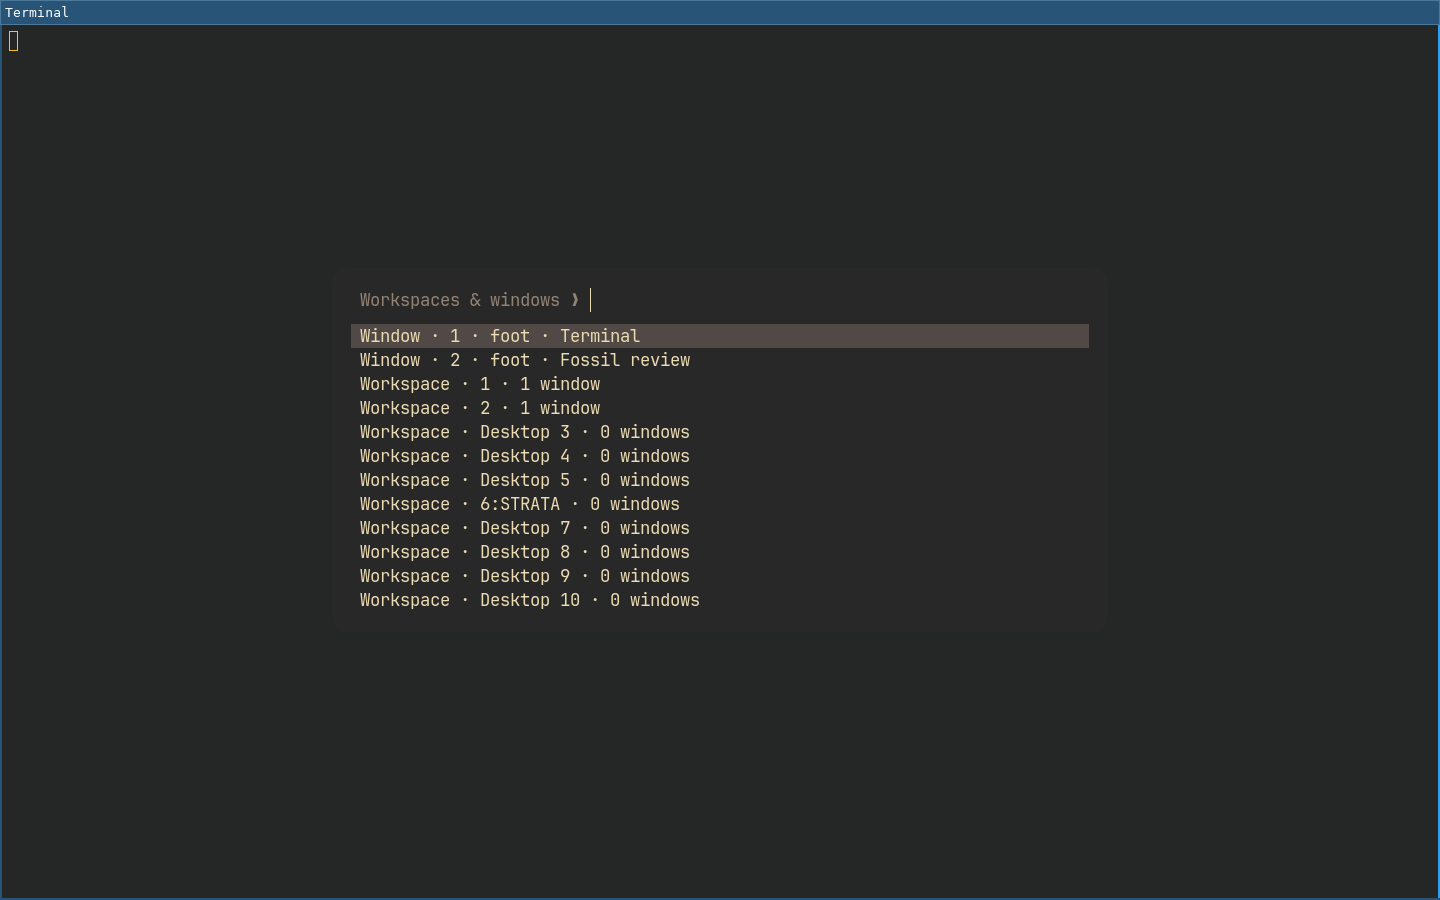
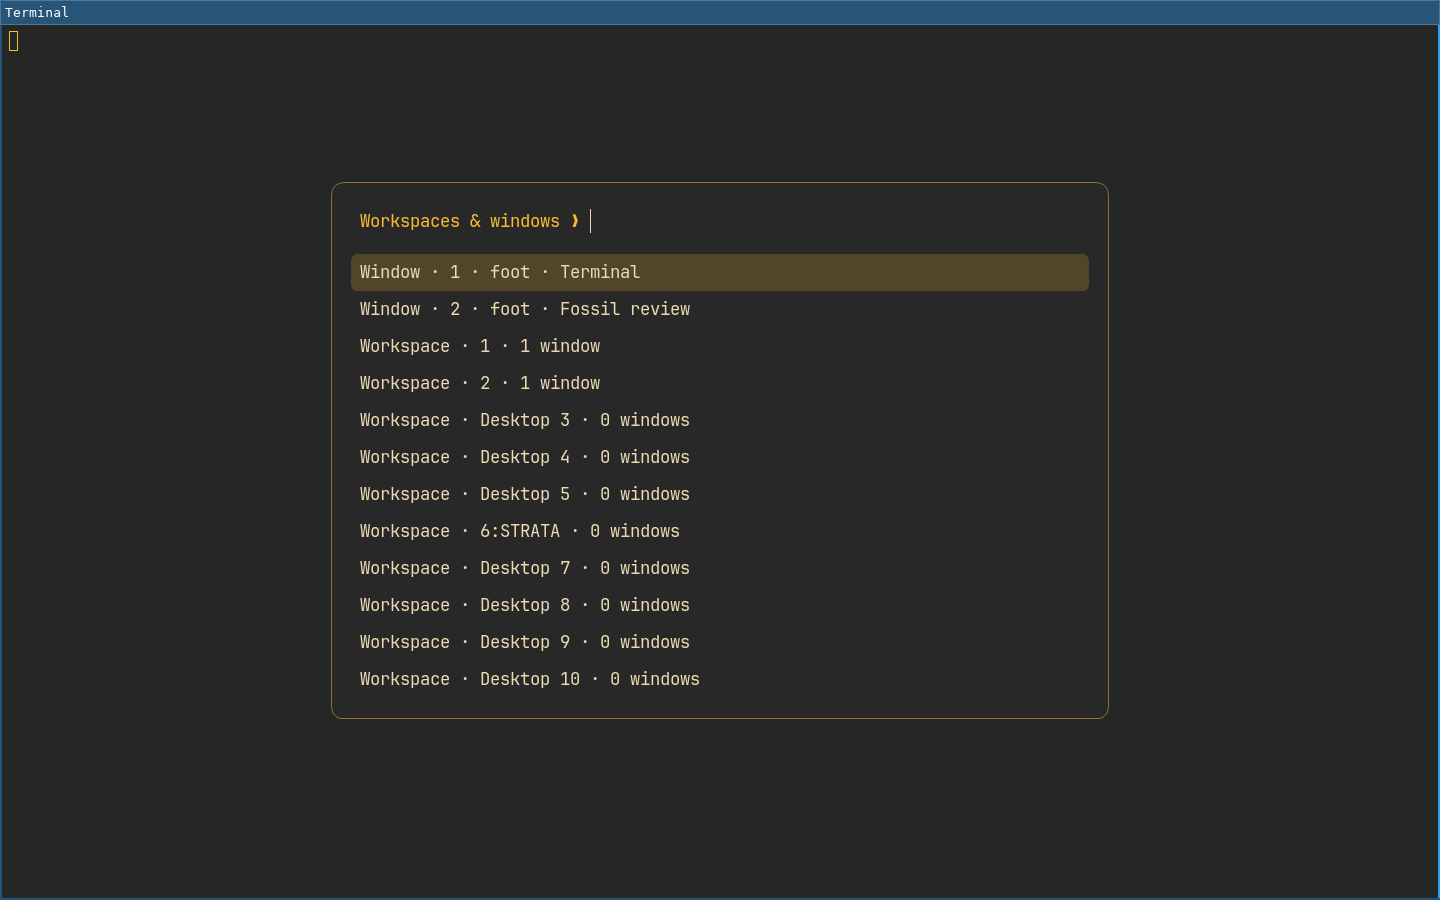
desktop: adapt launcher colors to every generated theme
FossilOrigin-Name: f2b861aeef02d7bd5c08b5a9210265626a0348fb3bb43331ab2b8f51bdc9d638

diff --git a/alpine/tests/verify_launcher_themes.py b/alpine/tests/verify_launcher_themes.py
@@ -1,0 +1,71 @@
+"""Render real Fuzzel menus under isolated Sway, without changing the live theme."""
+import os
+from pathlib import Path
+import runpy
+import subprocess
+import tempfile
+import time
+
+REPO = Path(__file__).resolve().parents[2]
+COLORS = runpy.run_path(str(REPO / 'alpine/desktop/.local/lib/oldbook/launcher_theme.py'))['color_arguments']
+OUTPUT = REPO / 'alpine/verification/launcher-themes'
+
+
+def main():
+    OUTPUT.mkdir(parents=True, exist_ok=True)
+    with tempfile.TemporaryDirectory(prefix='launcher-theme-') as temporary:
+        base = Path(temporary)
+        runtime = base / 'run'
+        runtime.mkdir(mode=0o700)
+        env = dict(os.environ, XDG_RUNTIME_DIR=str(runtime), WLR_BACKENDS='headless',
+                   WLR_RENDERER='pixman', WLR_LIBINPUT_NO_DEVICES='1')
+        for key in ('SWAYSOCK', 'WAYLAND_DISPLAY', 'DISPLAY'):
+            env.pop(key, None)
+        config = base / 'sway.conf'
+        config.write_text('output HEADLESS-1 mode 1100x700\noutput * bg #181818 solid_color\nseat seat0 fallback true\n')
+        with (base / 'sway.log').open('w') as log:
+            sway = subprocess.Popen(['sway', '-c', str(config)], env=env, stdout=log, stderr=log)
+            try:
+                for _ in range(60):
+                    displays = [p for p in runtime.glob('wayland-*') if p.is_socket()]
+                    if displays:
+                        break
+                    time.sleep(.1)
+                env['WAYLAND_DISPLAY'] = displays[0].name
+                for name, palette in (
+                    ('gruvbox', dict(background='#282828', foreground='#ebdbb2', accent='#fabd2f')),
+                    ('violet', dict(background='#13091f', foreground='#eaddf5', accent='#dca7ff')),
+                    ('parchment', dict(background='#fff6df', foreground='#44392d', accent='#b98938')),
+                ):
+                    command = [str(REPO / 'alpine/desktop/.local/bin/oldbook-fuzzel'),
+                               '--dmenu', '--prompt', 'Ghost Gallery ❯ ', '--width', '48', '--lines', '6',
+                               *COLORS(palette)]
+                    menu = subprocess.Popen(command, env=env, stdin=subprocess.PIPE, stdout=log, stderr=log, text=True)
+                    try:
+                        menu.stdin.write('Generate a random theme\nGenerate from a phrase or title\nBrowse paintings\nRotate this workspace\nKeep this painting\nEdit artwork guidance\n')
+                        menu.stdin.close()
+                        time.sleep(.8)
+                        if menu.poll() is not None:
+                            raise RuntimeError((base / 'sway.log').read_text())
+                        subprocess.run(['grim', str(OUTPUT / (name + '.png'))], env=env, check=True)
+                    finally:
+                        menu.terminate()
+                        menu.wait(timeout=5)
+                menu = subprocess.Popen([str(REPO / 'alpine/desktop/.local/bin/oldbook-menu')],
+                                        env=env, stdout=log, stderr=log)
+                try:
+                    time.sleep(1)
+                    if menu.poll() is not None:
+                        raise RuntimeError((base / 'sway.log').read_text())
+                    subprocess.run(['grim', str(OUTPUT / 'applications.png')], env=env, check=True)
+                finally:
+                    menu.terminate()
+                    menu.wait(timeout=5)
+            finally:
+                sway.terminate()
+                sway.wait(timeout=5)
+    print('Rendered dark, light, and generated palettes plus the real application launcher.')
+
+
+if __name__ == '__main__':
+    main()

diff --git a/alpine/tests/test_launcher_theme.py b/alpine/tests/test_launcher_theme.py
@@ -1,0 +1,47 @@
+"""Menus remain readable even when a generated palette has unusable contrast."""
+import runpy
+from pathlib import Path
+import unittest
+
+MODULE = Path(__file__).resolve().parents[1] / 'desktop/.local/lib/oldbook/launcher_theme.py'
+
+
+def contrast(a, b):
+    def luminance(color):
+        channels = [int(color[i:i + 2], 16) / 255 for i in (1, 3, 5)]
+        linear = [c / 12.92 if c <= .04045 else ((c + .055) / 1.055) ** 2.4 for c in channels]
+        return sum(c * w for c, w in zip(linear, (.2126, .7152, .0722)))
+    x, y = sorted((luminance(a), luminance(b)))
+    return (y + .05) / (x + .05)
+
+
+class LauncherThemeTests(unittest.TestCase):
+    def test_generated_dark_light_and_flat_palettes_remain_readable(self):
+        self.assertTrue(MODULE.exists(), 'Launchers need a generated-palette adapter')
+        colors = runpy.run_path(str(MODULE))['menu_colors']
+        for background, foreground, accent in (
+            ('#13091f', '#eaddf5', '#dca7ff'),
+            ('#fff6df', '#44392d', '#b98938'),
+            ('#777777', '#777777', '#777777'),
+            ('#000000', '#000000', '#000000'),
+            ('#ffffff', '#ffffff', '#ffffff'),
+        ):
+            with self.subTest(background=background):
+                palette = colors(dict(background=background, foreground=foreground, accent=accent))
+                self.assertEqual(palette['background'], background)
+                for role in ('text', 'input', 'prompt', 'placeholder', 'match', 'counter'):
+                    self.assertGreaterEqual(contrast(palette[role], background), 4.5, role)
+                for role in ('selection-text', 'selection-match'):
+                    self.assertGreaterEqual(contrast(palette[role], palette['selection']), 4.5, role)
+                self.assertGreaterEqual(contrast(palette['selection'], background), 1.3)
+
+    def test_readable_theme_accent_is_preserved(self):
+        self.assertTrue(MODULE.exists(), 'Launchers need a generated-palette adapter')
+        palette = runpy.run_path(str(MODULE))['menu_colors'](
+            dict(background='#282828', foreground='#ebdbb2', accent='#fabd2f'))
+        self.assertEqual(palette['text'], '#ebdbb2')
+        self.assertEqual(palette['match'], '#fabd2f')
+
+
+if __name__ == '__main__':
+    unittest.main()

diff --git a/alpine/desktop/.local/lib/oldbook/launcher_theme.py b/alpine/desktop/.local/lib/oldbook/launcher_theme.py
@@ -1,0 +1,47 @@
+"""Derive Fuzzel roles from even the gallery's minimal three-color themes."""
+
+
+def blend(color, target, amount):
+    return '#' + ''.join(f'{round(int(color[i:i + 2], 16) * (1 - amount) + int(target[i:i + 2], 16) * amount):02x}'
+                         for i in (1, 3, 5))
+
+
+def luminance(color):
+    channels = [int(color[i:i + 2], 16) / 255 for i in (1, 3, 5)]
+    linear = [c / 12.92 if c <= .04045 else ((c + .055) / 1.055) ** 2.4 for c in channels]
+    return sum(c * weight for c, weight in zip(linear, (.2126, .7152, .0722)))
+
+
+def contrast(first, second):
+    low, high = sorted((luminance(first), luminance(second)))
+    return (high + .05) / (low + .05)
+
+
+def readable(color, background, minimum=4.5):
+    """Keep the hue when possible; move toward the readable endpoint if needed."""
+    target = max(('#000000', '#ffffff'), key=lambda end: contrast(end, background))
+    for step in range(101):
+        candidate = blend(color, target, step / 100)
+        if contrast(candidate, background) >= minimum:
+            return candidate
+    return target
+
+
+def menu_colors(palette):
+    background = palette['background']
+    foreground = readable(palette['foreground'], background)
+    accent = readable(palette['accent'], background)
+    muted = readable(blend(background, foreground, .65), background)
+    selection = readable(blend(background, accent, .20), background, 1.3)
+    return {'background': background, 'text': foreground, 'input': foreground,
+            'prompt': accent, 'placeholder': muted, 'message': muted, 'counter': muted,
+            'match': accent, 'selection': selection,
+            'selection-text': readable(foreground, selection),
+            'selection-match': readable(accent, selection),
+            'border': blend(background, accent, .5)}
+
+
+def color_arguments(palette):
+    # Opaque surfaces keep contrast independent of whichever wallpaper is behind them.
+    return ['--' + role + '-color=' + color[1:] + 'ff'
+            for role, color in menu_colors(palette).items()]

diff --git a/alpine/desktop/.local/lib/oldbook/expo.py b/alpine/desktop/.local/lib/oldbook/expo.py
@@ -86,17 +86,10 @@ def main(action='toggle'):
 
 
 def show(ipc, sway, control):
-    from overlay_theme import read_palette
-    palette = read_palette()
     entries = menu_entries(ipc['request'](sway, 4))
-    command = ['fuzzel', '--dmenu', '--index', '--namespace', 'oldbook-expo',
+    command = [str(Path(__file__).resolve().parents[2] / 'bin/oldbook-fuzzel'), '--dmenu', '--index', '--namespace', 'oldbook-expo',
                '--prompt', 'Workspaces & windows ❯ ', '--width', '72',
                '--lines', str(min(14, len(entries)))]
-    colors = {'background': 'background', 'text': 'foreground', 'prompt': 'muted',
-              'input': 'foreground', 'match': 'accent', 'selection': 'border',
-              'selection-text': 'foreground', 'selection-match': 'accent', 'border': 'accent'}
-    for option, role in colors.items():
-        command += ['--' + option + '-color=' + palette[role][1:] + ('fa' if option == 'background' else 'ff')]
     child = subprocess.Popen(command, stdin=subprocess.PIPE, stdout=subprocess.PIPE, text=True)
     try:
         child.stdin.write('\n'.join(label for label, _ in entries) + '\n')

diff --git a/docs/superpowers/decisions/2026-09-07-launcher-themes.md b/docs/superpowers/decisions/2026-09-07-launcher-themes.md
@@ -1,0 +1,37 @@
+# Theme-aware desktop launchers
+
+Every Oldbook Fuzzel entry point uses `oldbook-fuzzel`, which reads
+`alpine/themes/current` and its descriptor each time a menu opens. Generating an
+artwork collection does not itself change the active desktop theme.
+
+The shared Fuzzel configuration controls typography and geometry: existing
+JetBrains Mono at 13pt, comfortable row spacing, 12px outer corners, and a fine
+accent border. Selected rows use 6px corners and a tint derived from the theme.
+The wrapper supplies all color roles, including prompts, placeholders, matches,
+and selected text. Opaque menu surfaces keep wallpaper colors from compromising
+readability. Plain system `fuzzel` still uses the fallback configuration; desktop
+integrations should invoke `~/.local/bin/oldbook-fuzzel`.
+
+Minimal generated palettes need only background, foreground, and accent. The
+adapter preserves readable colors, blends secondary colors from the theme, and
+adjusts insufficient-contrast text toward black or white. Tests require text
+contrast of at least 4.5:1, and selection/background separation of at least 1.3:1.
+Malformed descriptors use the existing safe fallback reader.
+
+Validation: new palette tests cover dark, light, identical gray, all-black, and
+all-white inputs. Fuzzel's installed parser accepts the config and arguments;
+ShellCheck accepts oldbook-menu. Actual isolated Sway renders are in
+`alpine/verification/launcher-themes/`; `verify_launcher_themes.py` reproduces
+them without changing the live palette. The real app launcher opens. The Expo
+integration verifies searching/focusing windows, workspace selection, Escape,
+close, toggle, and repeated show. Deployment to a disposable HOME passed.
+
+The full Alpine test run had 343 tests, with three failures in the simultaneous
+Superhold migration (configuration alias deployment and two legacy status
+checks). No launcher/theme tests failed. The gallery integration shares
+oldbook-wallpaper with ongoing desktop-panel work; its two wrapper substitutions
+are applied but that shared file is excluded from this task's focused commit.
+
+Recovery: restore this change's launcher/config paths from its parent revision
+and remove the new oldbook-fuzzel HOME symlink. Reopen menus; no compositor restart
+or persistent background service is required by this change.
